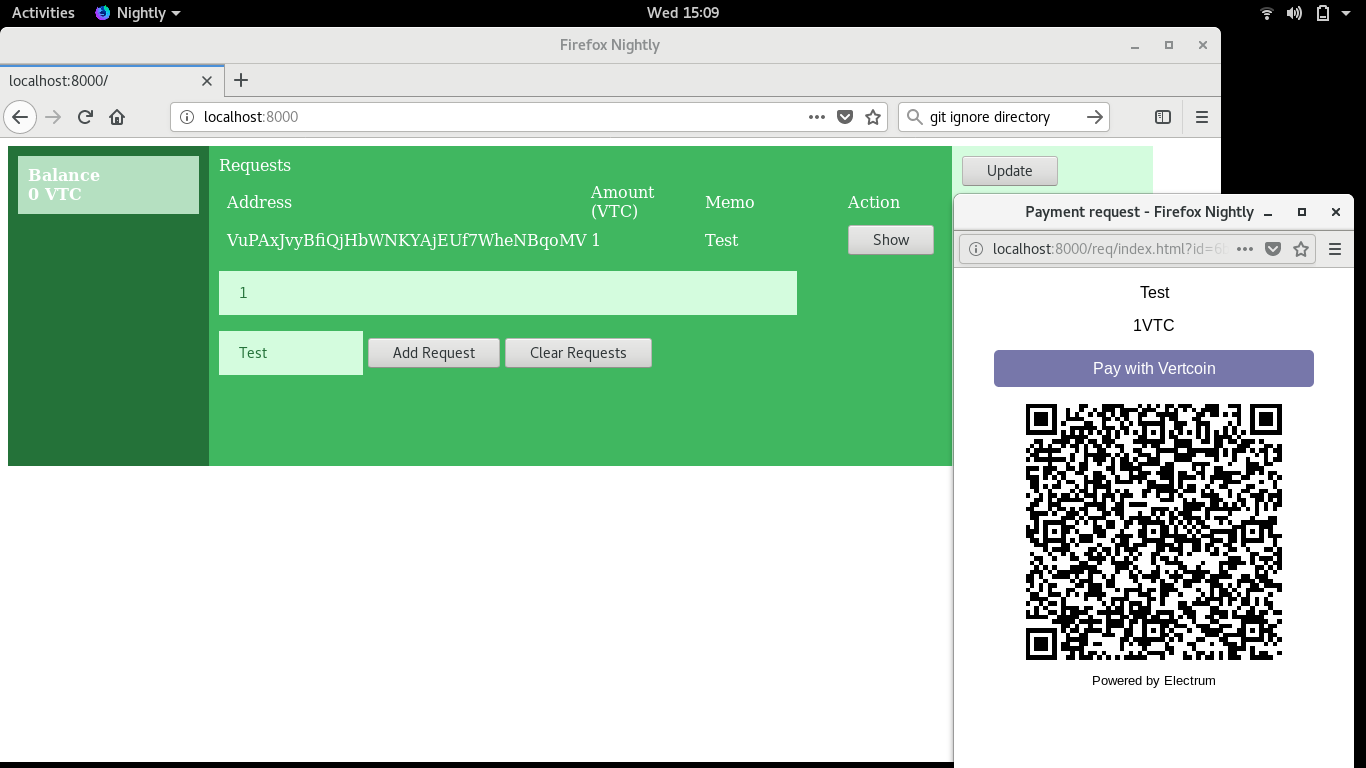
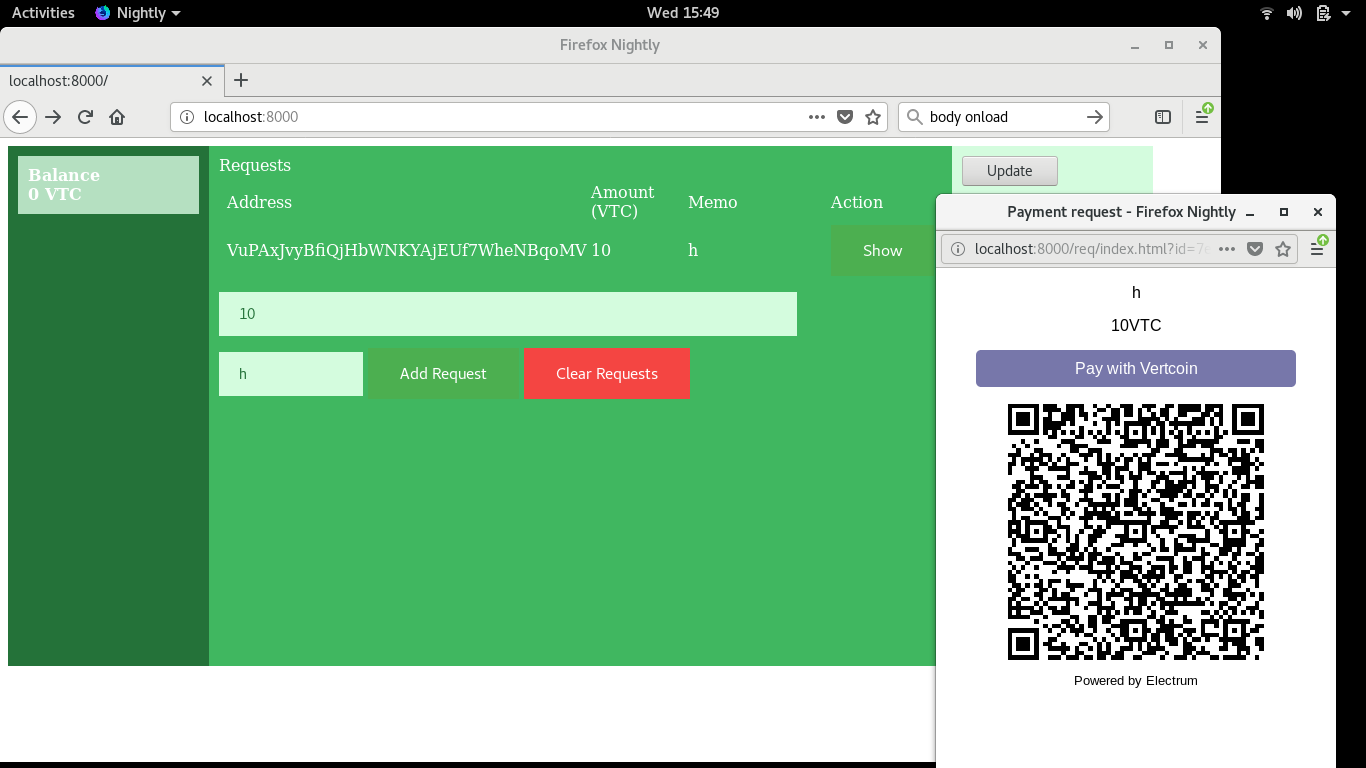
Added autorefresh and updated screenshot

diff --git a/wallet/wallet.js b/wallet/wallet.js
@@ -13,7 +13,7 @@ function updateBalance () {
 	});
 }
 function popUpWindow(URL) {
-	window.open(URL, "Request","directories=no,titlebar=no,toolbar=no,location=no,status=no,menubar=no,scrollbars=no,left=500,width=400,height=500");
+	window.open(URL, "_blank", "directories=no, titlebar=no, toolbar=no, location=no, status=no, menubar=no, scrollbars=no, left=500, width=400, height=500");
 }
 function updateRequests () {
 	console.log('listrequests');
@@ -26,7 +26,7 @@ function updateRequests () {
 			"<tr><td>"+data.result[i].address+"</td><td>"+
 			data.result[i].amount/100000000+
 			"</td><td>"+data.result[i].memo+
-			"</td><td><button class='button-okay' onclick='window.open(\""+data.result[i].index_url+"\"'>Show</button></td></tr>";
+			"</td><td><button class='button-okay' onclick='popUpWindow(\""+data.result[i].index_url+"\")'>Show</button></td></tr>";
                  }
 		table += "</table>";
 		$("#requests-table").html(table);
@@ -58,4 +58,4 @@ function mainloop(){
   updateBalance();
   updateRequests();
 }
-window.setInterval(mainloop(), 1000);
+window.setInterval(mainloop, 500);

diff --git a/wallet/index.htm b/wallet/index.htm
@@ -5,7 +5,7 @@
 <script src="wallet.js"></script>
 <link rel="stylesheet" type="text/css" href="styles.css">
 </head>
-<body onload="window.setInterval(mainloop(), 1000);">
+<body>
 	<div class='window'>
 		<div class='left-pane'>
 		  <div id='balance-view' class='balance-widget'>
@@ -19,8 +19,8 @@
 			<div id='requests-table'>Loading..</div>
 			<input id="add-request-amount" value="Amount (VTC)" class="amount input-box" onclick='$("#add-request-amount").val("")'/>
 			<input id="add-request-memo" value="Memo"  class="memo input-box" onclick='$("#add-request-memo").val("")'/>
-		    <button id="add-request-button">Add Request</button>
-		    <button id="clear-requests-button">Clear Requests</button>
+		    <button id="add-request-button" class="button-okay">Add Request</button>
+		    <button id="clear-requests-button" class="button-check">Clear Requests</button>
 		  </div>
 		</div>
 		<div class='right-pane'>

diff --git a/wallet/styles.css b/wallet/styles.css
@@ -5,7 +5,7 @@
 	height: 200px;
 	background-color: #247239;
 	color: #FFFFFF;
-	height: 300px;
+	height: 500px;
 }
 .balance-widget {
 	background-color: #b5e0c1;
@@ -19,7 +19,7 @@
 	height: 200px;
 	background-color: #40b760;
 	color: #FFFFFF;
-	height: 300px;
+	height: 500px;
 }
 .right-pane {
 	float: left;
@@ -28,7 +28,7 @@
 	height: 200px;
 	background-color: #d4fcde;
 	color: #FFFFFF;
-	height: 300px;
+	height: 500px;
 }
 .window:after {
     content: "";

diff --git a/wallet/pop.htm b/wallet/pop.htm
@@ -1,0 +1,10 @@
+<!DOCTYPE html>
+<html>
+<head>
+<link rel="stylesheet" type="text/css" href="styles.css">
+</head>
+<body onload="">
+<button class="button-okay" onclick='window.open("wallet.htm", "_blank", "directories=no, titlebar=no, toolbar=no, location=no, status=no, menubar=no, scrollbars=no, left=500, width=1000, height=500")'>Open wallet</button>
+</body>
+</html>
+
